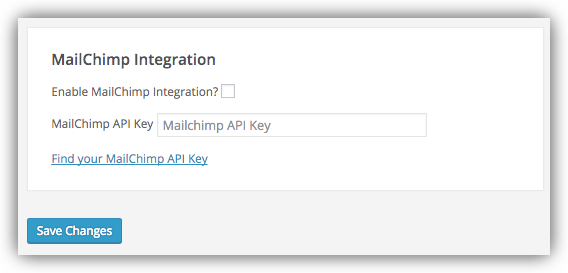
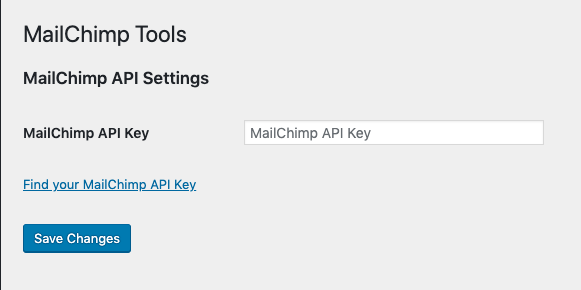
Replace MailChimp settings image.

Changed region(s): [[0.0, 0.0293, 0.9877, 0.967], [0.7482, 0.4982, 0.9278, 0.5275], [0.7482, 0.4103, 0.9278, 0.4396]]

diff --git a/docs/mailchimp.md b/docs/mailchimp.md
@@ -18,7 +18,7 @@ In order to use the MailChimp features of Link Roundups, you'll need to sign up 
 3. On your website, go to **Dashboard > Settings > MailChimp Options**.
 4. Paste the MailChimp API Key into the appropriate field
 5. Press "Save Changes".
-6. Go to **Link Roundups > MailChimp Campaign Settings** to configure your MailChimp campaigns.
+6. Go to **Settings > MailChimp Settings** to configure your MailChimp campaigns.
 
 ![Link Roundups MailChimp API settings](./img/link-roundups-mailchimp-integration.png)
 
